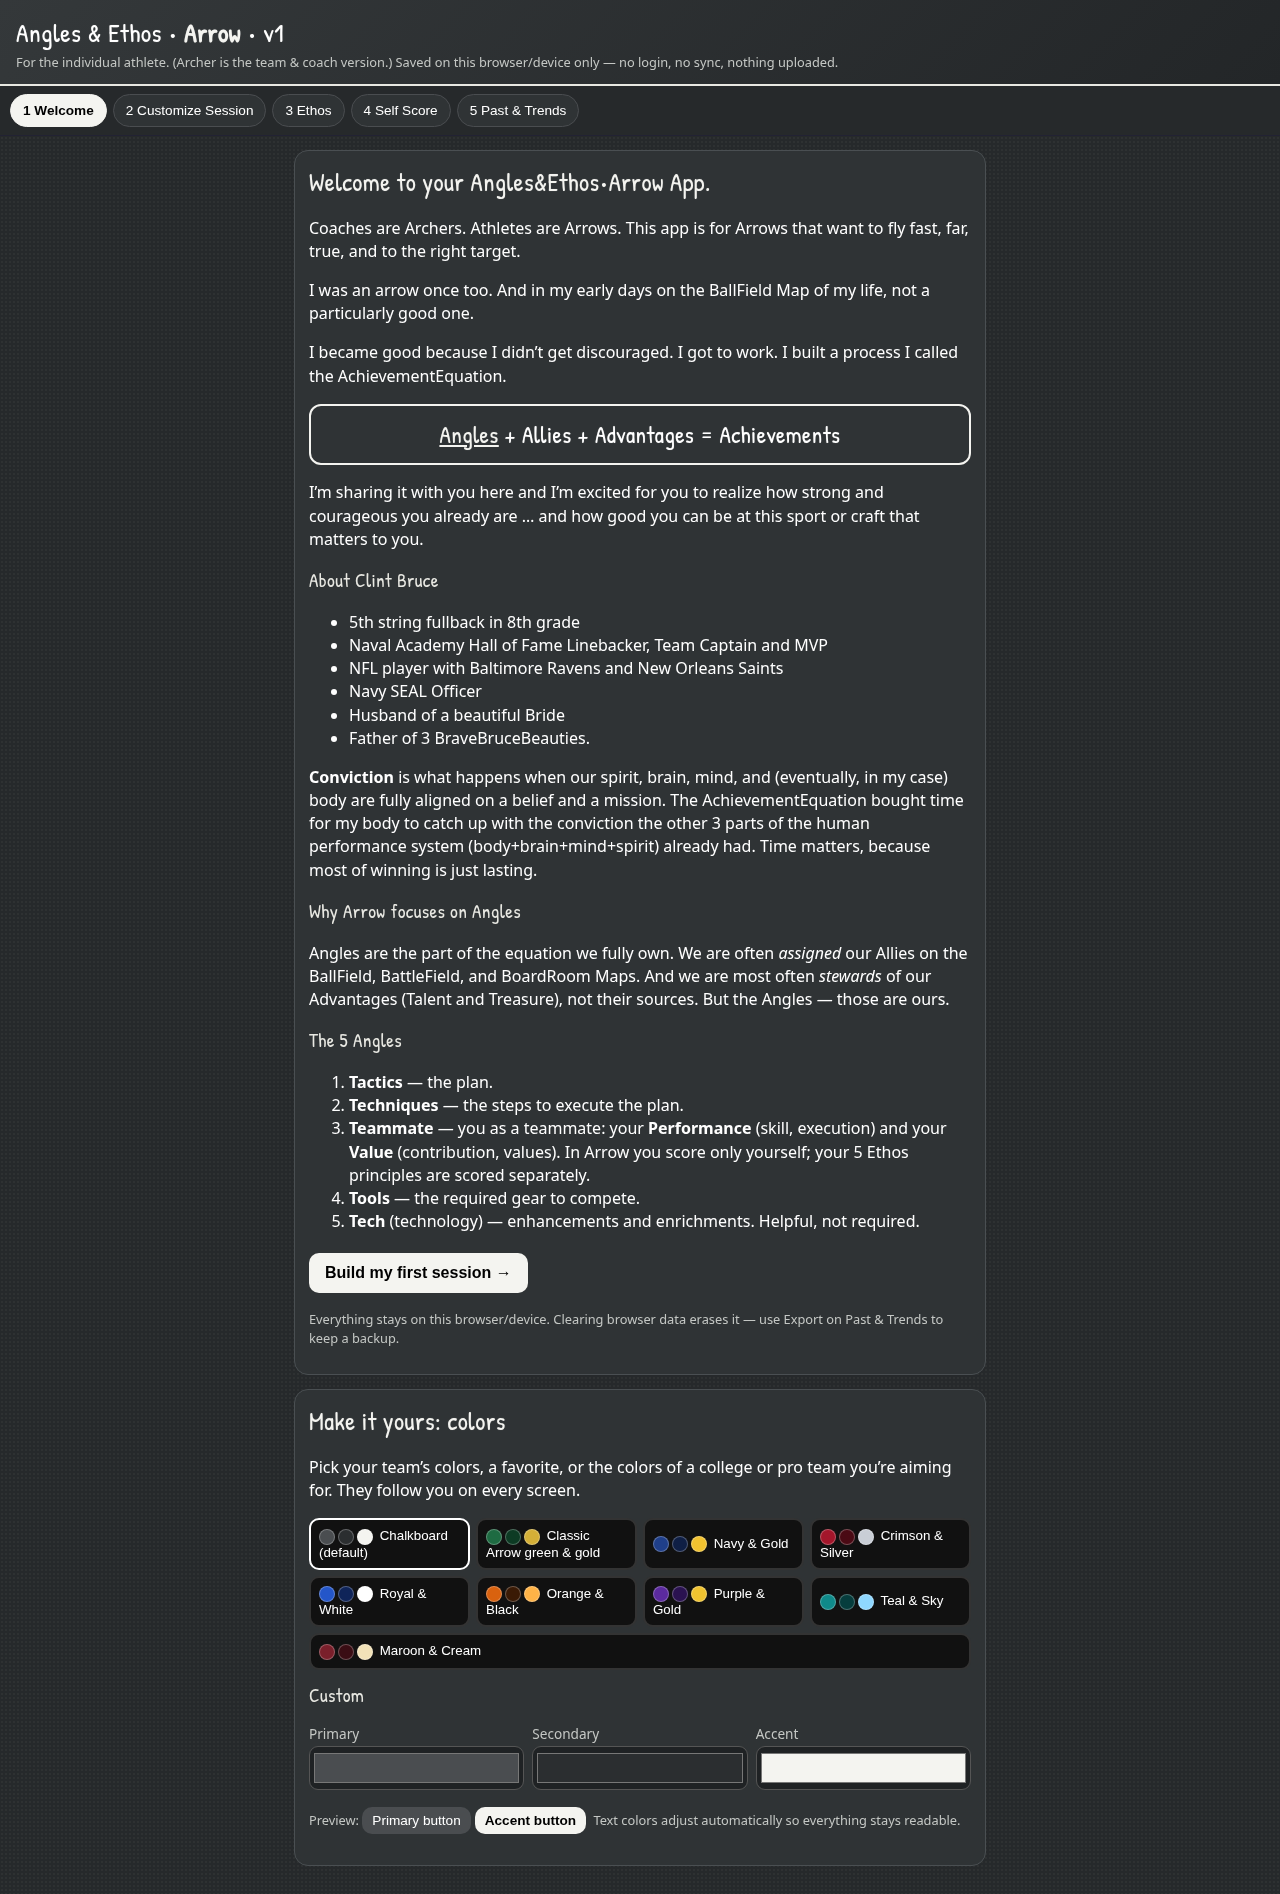
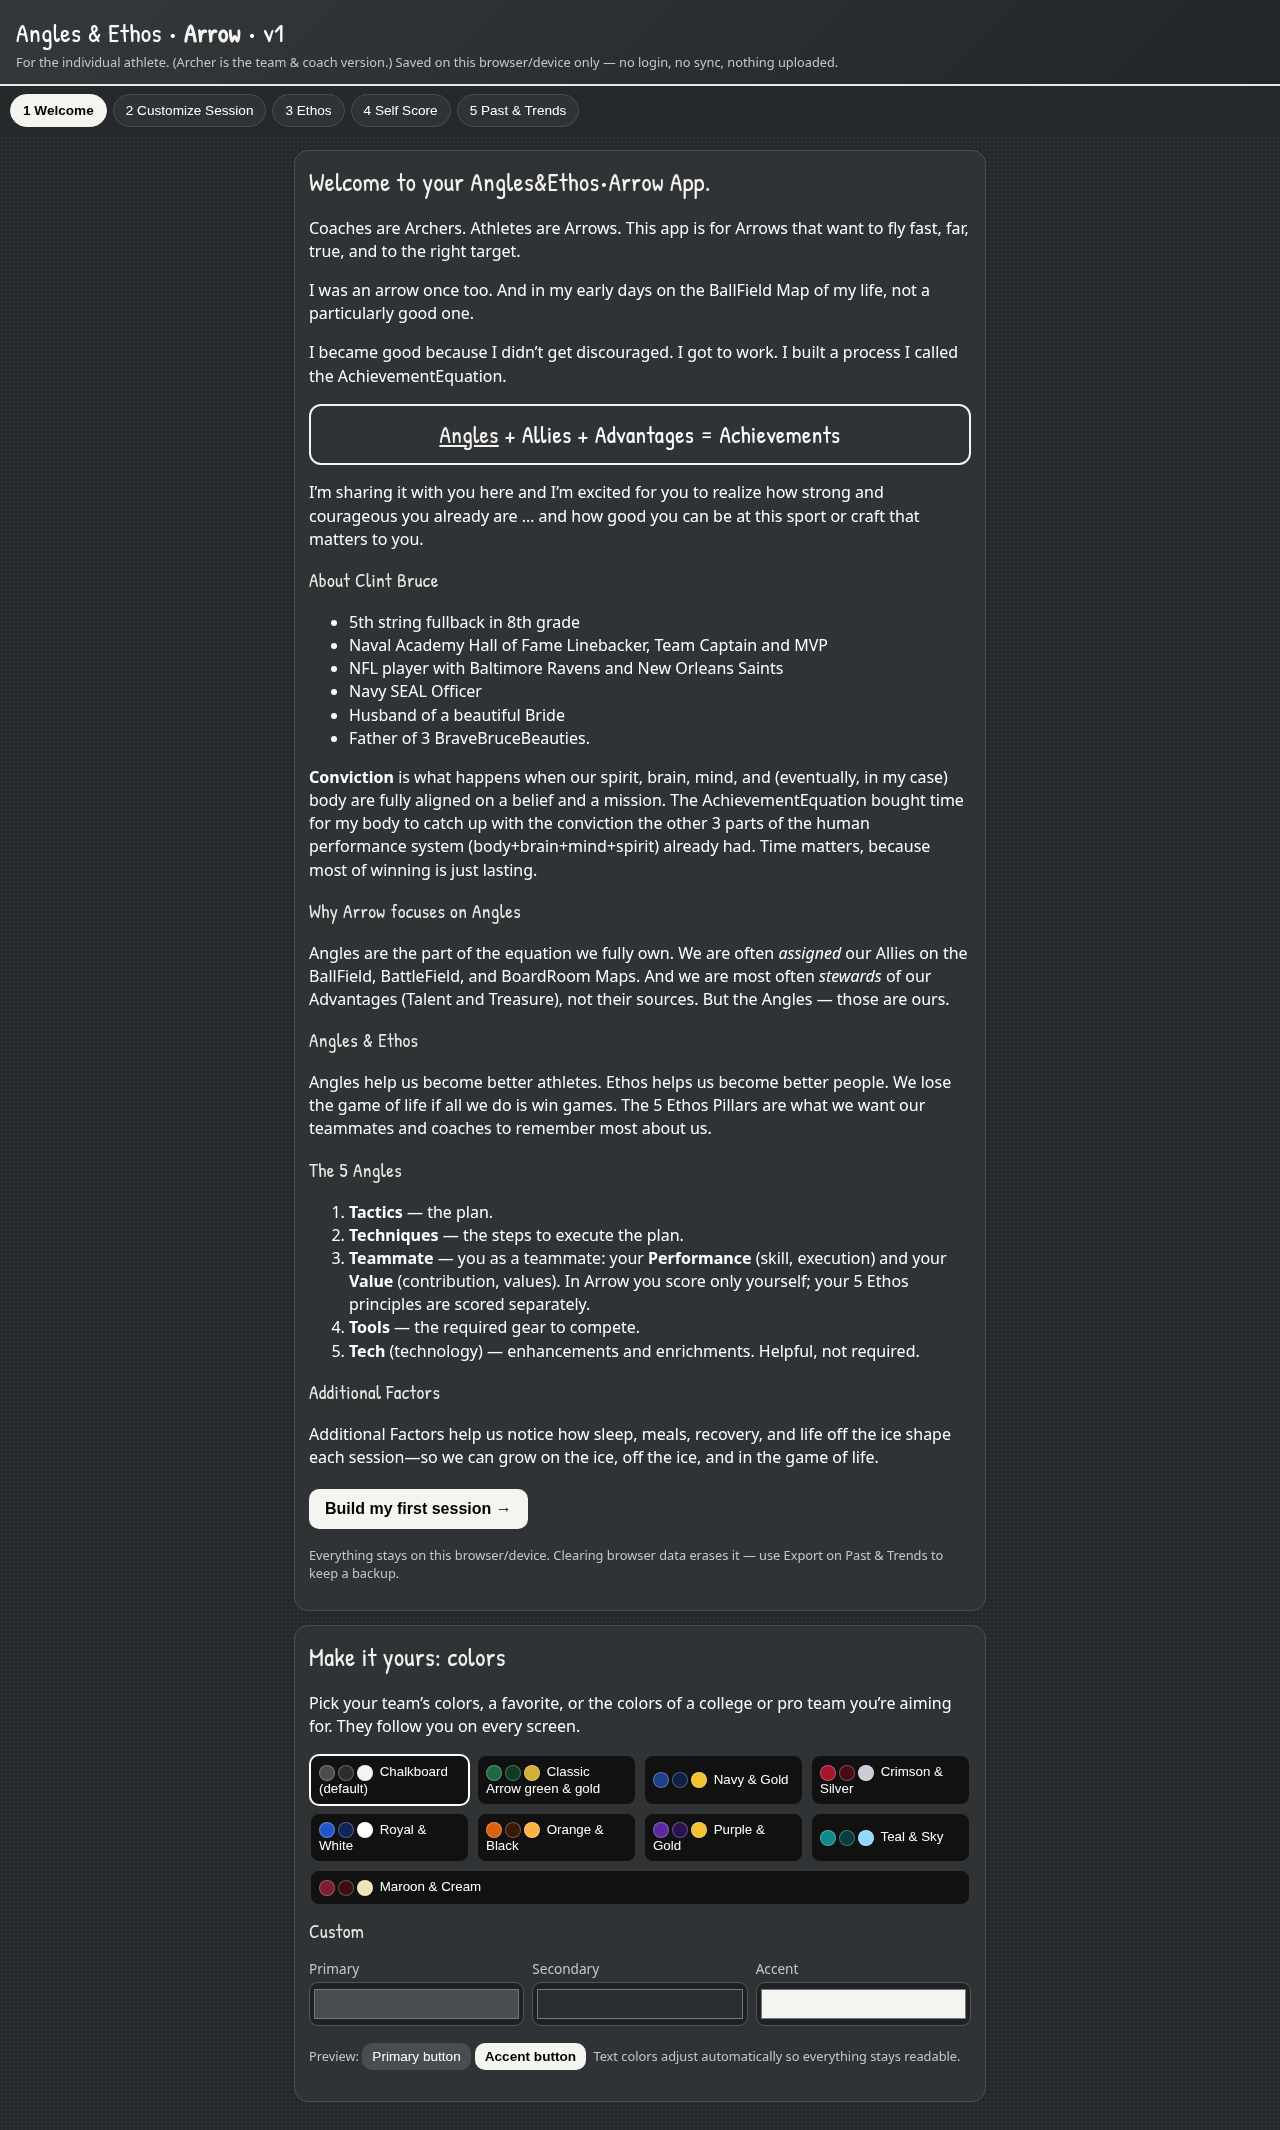
Welcome: Angles & Ethos and Additional Factors explanations

Changed region(s): [[0.0, 0.0, 0.7812, 0.9968], [0.6562, 0.7165, 0.6875, 0.7476]]

diff --git a/index.html b/index.html
@@ -99,10 +99,12 @@ function vWelcome(){return `<div class="card"><h2>Welcome to your Angles&amp;Eth
 <p><b>Conviction</b> is what happens when our spirit, brain, mind, and (eventually, in my case) body are fully aligned on a belief and a mission. The AchievementEquation bought time for my body to catch up with the conviction the other 3 parts of the human performance system (body+brain+mind+spirit) already had. Time matters, because most of winning is just lasting.</p>
 <h3>Why Arrow focuses on Angles</h3>
 <p>Angles are the part of the equation we fully own. We are often <i>assigned</i> our Allies on the BallField, BattleField, and BoardRoom Maps. And we are most often <i>stewards</i> of our Advantages (Talent and Treasure), not their sources. But the Angles — those are ours.</p>
+<div id="ae-ethos"><h3>Angles &amp; Ethos</h3><p>Angles help us become better athletes. Ethos helps us become better people. We lose the game of life if all we do is win games. The 5 Ethos Pillars are what we want our teammates and coaches to remember most about us.</p></div>
 <h3>The 5 Angles</h3><ol>
 <li><b>Tactics</b> — the plan.</li><li><b>Techniques</b> — the steps to execute the plan.</li>
 <li><b>Teammate</b> — you as a teammate: your <b>Performance</b> (skill, execution) and your <b>Value</b> (contribution, values). In Arrow you score only yourself; your 5 Ethos principles are scored separately.</li>
 <li><b>Tools</b> — the required gear to compete.</li><li><b>Tech</b> (technology) — enhancements and enrichments. Helpful, not required.</li></ol>
+<div id="ae-factors"><h3>Additional Factors</h3><p>Additional Factors help us notice how sleep, meals, recovery, and life off the ice shape each session—so we can grow on the ice, off the ice, and in the game of life.</p></div>
 <button class="btn gold" onclick="go('session')">Build my first session →</button>
 <p class="note">Everything stays on this browser/device. Clearing browser data erases it — use Export on Past &amp; Trends to keep a backup.</p></div>`+vColors()}
 function opts(list,v){return list.map(o=>`<option ${o===v?'selected':''}>${o}</option>`).join('')}

diff --git a/test.py b/test.py
@@ -187,3 +187,18 @@ with sync_playwright() as p:
     assert ps[0]==L and ps[1].startswith('I was an arrow once too.') and 'I’m Clint Bruce' not in pg.inner_text('main'), ps[:2]
     assert pg.evaluate('document.documentElement.scrollWidth')<=vp['width']
     print('archer ok',e); pg.close()
+
+E='Angles help us become better athletes. Ethos helps us become better people. We lose the game of life if all we do is win games. The 5 Ethos Pillars are what we want our teammates and coaches to remember most about us.';A='Additional Factors help us notice how sleep, meals, recovery, and life off the ice shape each session—so we can grow on the ice, off the ice, and in the game of life.'
+with sync_playwright() as p:
+  b=p.chromium.launch(executable_path='/usr/bin/google-chrome',args=['--no-sandbox'])
+  for vp in [{'width':390,'height':844},{'width':1280,'height':900}]:
+    pg=b.new_page(viewport=vp); e=[]; pg.on('pageerror',lambda x:e.append(str(x)))
+    pg.goto(url); pg.evaluate('localStorage.clear()'); pg.reload(); t=pg.inner_text('main')
+    assert t.count(E)==1 and t.count(A)==1
+    i=[t.index(x) for x in ['Coaches are Archers','I was an arrow','Advantages','About Clint Bruce','Conviction',E,'The 5 Angles',A,'Make it yours']]
+    assert i==sorted(i),i
+    assert pg.evaluate('document.documentElement.scrollWidth')<=vp['width']
+    if vp['width']==390:
+      bb=pg.locator('#ae-ethos').bounding_box(); bf=pg.locator('#ae-factors').bounding_box()
+      pg.screenshot(path='shots/arrow-welcome-explanations.png',full_page=True,clip={'x':0,'y':bb['y']-10,'width':390,'height':bf['y']+bf['height']-bb['y']+20})
+    print('expl ok',e); pg.close()
